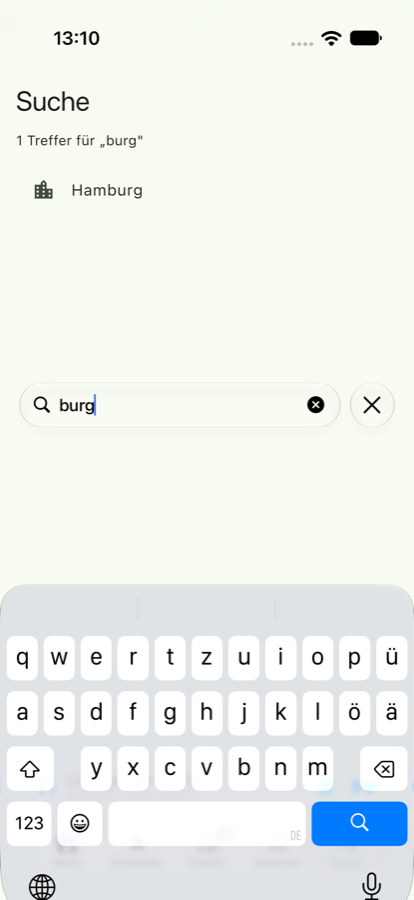
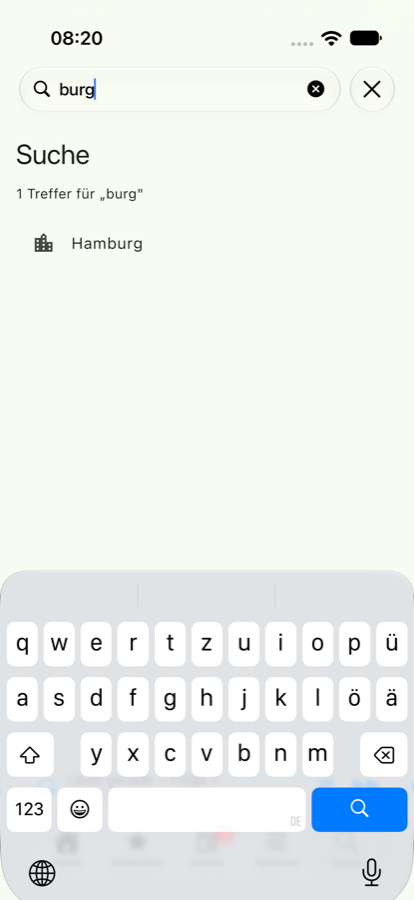
Place the active search field at the top like a native search tab
UIKit puts the active search field at the top of the tab bar controller's
view. The host strip was only extended by the keyboard height, so its top
edge, and with it the field, ended up mid-screen. While searching, the host
now fills the available height (the field lands below the status bar, as
in a pure UIKit app), the native side reports the field's bottom as
`topInset`, and UIKitTabScaffold pads the content top by it.

diff --git a/lib/src/native_bar.dart b/lib/src/native_bar.dart
@@ -92,24 +92,25 @@ class NativeTabBarState extends State<NativeTabBar> implements UIKitTabBarConnec
   }
 
   TabBarState get _state => TabBarState(
-        tabs: _config.tabs,
-        selectedId: _config.selectedId,
-        searchTab: _config.searchTab,
-        prominentTabId: _config.prominentTabId,
-        minimizeBehavior: _config.minimizeBehavior,
-        hidden: _config.hidden,
-        accessory: _config.accessory,
-        style: _config.style,
-        brightness: _config.style.brightness ??
-            CupertinoTheme.maybeBrightnessOf(context) ??
-            MediaQuery.platformBrightnessOf(context),
-        rtl: Directionality.maybeOf(context) == TextDirection.rtl,
-      );
+    tabs: _config.tabs,
+    selectedId: _config.selectedId,
+    searchTab: _config.searchTab,
+    prominentTabId: _config.prominentTabId,
+    minimizeBehavior: _config.minimizeBehavior,
+    hidden: _config.hidden,
+    accessory: _config.accessory,
+    style: _config.style,
+    brightness:
+        _config.style.brightness ??
+        CupertinoTheme.maybeBrightnessOf(context) ??
+        MediaQuery.platformBrightnessOf(context),
+    rtl: Directionality.maybeOf(context) == TextDirection.rtl,
+  );
 
   Map<String, Object?> _encode() => encodeState(
-        _state,
-        (icon) => IconRenderer.instance.lookup(icon, _scale, onReady: _scheduleUpdate),
-      );
+    _state,
+    (icon) => IconRenderer.instance.lookup(icon, _scale, onReady: _scheduleUpdate),
+  );
 
   /// PNGs for image keys the native side has not received yet.
   Map<String, Uint8List> _takeImages(Map<String, Object?> encoded) {
@@ -155,7 +156,9 @@ class NativeTabBarState extends State<NativeTabBar> implements UIKitTabBarConnec
   }
 
   Future<Object?> _handle(MethodCall call) async {
-    final args = call.arguments is Map ? (call.arguments as Map).cast<Object?, Object?>() : const {};
+    final args = call.arguments is Map
+        ? (call.arguments as Map).cast<Object?, Object?>()
+        : const {};
     switch (call.method) {
       case 'selected':
         final id = args['id'] as String;
@@ -225,23 +228,30 @@ class NativeTabBarState extends State<NativeTabBar> implements UIKitTabBarConnec
 
   @override
   Widget build(BuildContext context) {
-    // While the native search field is active, extend the host behind the
-    // keyboard so UIKit can place the field above it.
-    final keyboard = _searchActive ? MediaQuery.viewInsetsOf(context).bottom : 0.0;
-    return SizedBox(
-      height: kNativeHostHeight + _extraHeight + keyboard,
-      child: NativeHitRegion(
-        rects: _geometry.hitRects,
-        child: UiKitView(
-          viewType: kViewType,
-          creationParams: _creationParams,
-          creationParamsCodec: const StandardMessageCodec(),
-          onPlatformViewCreated: _onCreated,
-          gestureRecognizers: const <Factory<OneSequenceGestureRecognizer>>{
-            Factory<OneSequenceGestureRecognizer>(EagerGestureRecognizer.new),
-          },
-        ),
-      ),
+    // While the native search field is active, the host fills the
+    // available height: UIKit then places the field at the top below the
+    // status bar, as in a native app, instead of at the top of a strip.
+    return LayoutBuilder(
+      builder: (context, constraints) {
+        final full = constraints.hasBoundedHeight
+            ? constraints.maxHeight
+            : MediaQuery.sizeOf(context).height;
+        return SizedBox(
+          height: _searchActive ? full : kNativeHostHeight + _extraHeight,
+          child: NativeHitRegion(
+            rects: _geometry.hitRects,
+            child: UiKitView(
+              viewType: kViewType,
+              creationParams: _creationParams,
+              creationParamsCodec: const StandardMessageCodec(),
+              onPlatformViewCreated: _onCreated,
+              gestureRecognizers: const <Factory<OneSequenceGestureRecognizer>>{
+                Factory<OneSequenceGestureRecognizer>(EagerGestureRecognizer.new),
+              },
+            ),
+          ),
+        );
+      },
     );
   }
 }

diff --git a/lib/src/model.dart b/lib/src/model.dart
@@ -378,6 +378,7 @@ class UIKitTabBarGeometry {
   const UIKitTabBarGeometry({
     required this.isNative,
     required this.bottomInset,
+    this.topInset = 0,
     this.barRect,
     this.accessoryRect,
     this.searchFieldRect,
@@ -397,6 +398,11 @@ class UIKitTabBarGeometry {
   /// (bar, accessory and home indicator); UIKit's `contentLayoutGuide`.
   /// Apps use this as bottom padding.
   final double bottomInset;
+
+  /// Height at the top of the screen that content should keep clear of
+  /// while the native search field is active: like in a native app, UIKit
+  /// then shows the field at the top, below the status bar. `0` otherwise.
+  final double topInset;
 
   /// Frame of the tab bar view (full width, incl. home indicator area).
   final Rect? barRect;
@@ -424,6 +430,7 @@ class UIKitTabBarGeometry {
       other is UIKitTabBarGeometry &&
       other.isNative == isNative &&
       other.bottomInset == bottomInset &&
+      other.topInset == topInset &&
       other.barRect == barRect &&
       other.accessoryRect == accessoryRect &&
       other.searchFieldRect == searchFieldRect &&
@@ -433,11 +440,12 @@ class UIKitTabBarGeometry {
       other.accessoryEnvironment == accessoryEnvironment;
 
   @override
-  int get hashCode => Object.hash(isNative, bottomInset, barRect, accessoryRect,
+  int get hashCode => Object.hash(isNative, bottomInset, topInset, barRect, accessoryRect,
       searchFieldRect, Object.hashAll(hitRects), minimized, hidden, accessoryEnvironment);
 
   @override
   String toString() => 'UIKitTabBarGeometry(native: $isNative, bottomInset: $bottomInset, '
+      'topInset: $topInset, '
       'bar: $barRect, accessory: $accessoryRect, minimized: $minimized, hidden: $hidden, '
       'accessory: ${accessoryEnvironment.name})';
 }

diff --git a/lib/src/scaffold.dart b/lib/src/scaffold.dart
@@ -12,7 +12,8 @@ import 'tab_bar.dart';
 /// * the body extends to the bottom edge (the glass bar shows it through),
 /// * `MediaQuery.padding.bottom` of the body is the bar's reported
 ///   [UIKitTabBarGeometry.bottomInset], so `SafeArea`, `ListView` etc. keep
-///   their content clear of the bar,
+///   their content clear of the bar; while the native search field is
+///   active at the top, `padding.top` covers it ([UIKitTabBarGeometry.topInset]),
 /// * vertical scrolling of the body's primary scrollable is forwarded so
 ///   the native bar can minimize.
 ///
@@ -62,11 +63,17 @@ class _UIKitTabScaffoldState extends State<UIKitTabScaffold> {
                 final inset = geometry == UIKitTabBarGeometry.initial
                     ? estimatedBottomInset(media.padding.bottom)
                     : geometry.bottomInset;
+                final top = geometry.topInset;
                 return MediaQuery(
                   data: media.copyWith(
-                    padding: media.padding.copyWith(bottom: math.max(media.padding.bottom, inset)),
-                    viewPadding:
-                        media.viewPadding.copyWith(bottom: math.max(media.viewPadding.bottom, inset)),
+                    padding: media.padding.copyWith(
+                      top: math.max(media.padding.top, top),
+                      bottom: math.max(media.padding.bottom, inset),
+                    ),
+                    viewPadding: media.viewPadding.copyWith(
+                      top: math.max(media.viewPadding.top, top),
+                      bottom: math.max(media.viewPadding.bottom, inset),
+                    ),
                   ),
                   child: child!,
                 );

diff --git a/test/native_bar_test.dart b/test/native_bar_test.dart
@@ -288,6 +288,46 @@ void main() {
     expect(native.calls.last.arguments, {'action': 'setText', 'text': 'Text'});
   });
 
+  testWidgets('active search fills the height and pads the content top', (tester) async {
+    tester.view.physicalSize = const Size(420, 912);
+    tester.view.devicePixelRatio = 1;
+    addTearDown(tester.view.reset);
+    final native = FakeNative(tester);
+    late EdgeInsets bodyPadding;
+    await tester.pumpWidget(_app(UIKitTabScaffold(
+      tabBar: UIKitTabBar(
+        tabs: _tabs,
+        selectedId: 'search',
+        onSelected: (_) {},
+        searchTab: const UIKitSearchTab(),
+      ),
+      body: Builder(builder: (context) {
+        bodyPadding = MediaQuery.paddingOf(context);
+        return const SizedBox.expand();
+      }),
+    )));
+    await tester.pump();
+    final host = find.byType(UiKitView);
+    expect(tester.getSize(host).height, 200);
+
+    await native.send('searchActive', {'active': true});
+    expect(tester.getSize(host).height, 912, reason: 'UIKit puts the active field at the top');
+
+    await native.send('geometry', {
+      'bottomInset': 83.0,
+      'topInset': 112.0,
+      'search': [20.0, 68.0, 325.0, 44.0],
+      'hitRects': [
+        [20.0, 68.0, 325.0, 44.0],
+      ],
+    });
+    await tester.pump();
+    expect(bodyPadding.top, 112);
+
+    await native.send('searchActive', {'active': false});
+    expect(tester.getSize(host).height, 200);
+  });
+
   test('isNativeSupported follows the override', () {
     debugUseNativeTabBar = false;
     expect(UIKitTabBar.isNativeSupported, isFalse);

diff --git a/ios/uikit_tab_bar/Sources/uikit_tab_bar/NativeTabBarView.swift b/ios/uikit_tab_bar/Sources/uikit_tab_bar/NativeTabBarView.swift
@@ -47,6 +47,7 @@ final class NativeTabBarView: NSObject, FlutterPlatformView, UITabBarControllerD
   private var lastGeometry: [String: AnyHashable] = [:]
   private var displayLink: CADisplayLink?
   private var pollUntil: CFTimeInterval = 0
+  private var searchActive = false
 
   init(frame: CGRect, channel: FlutterMethodChannel, args: [String: Any]) {
     host = HostView(frame: frame)
@@ -208,6 +209,7 @@ final class NativeTabBarView: NSObject, FlutterPlatformView, UITabBarControllerD
       vc.onText = { text in self?.send("searchChanged", ["text": text]) }
       vc.onSubmit = { text in self?.send("searchSubmitted", ["text": text]) }
       vc.onActive = { active in
+        self?.searchActive = active
         self?.send("searchActive", ["active": active])
         self?.pokeGeometry()
       }
@@ -386,6 +388,8 @@ final class NativeTabBarView: NSObject, FlutterPlatformView, UITabBarControllerD
       "hidden": controller.isTabBarHidden,
       "minimized": minimized,
       "bottomInset": Double(max(0, host.bounds.maxY - guide.maxY)),
+      // Active, the field sits at the top of the (then full-height) host.
+      "topInset": searchActive && !searchRect.isEmpty ? searchRect[1] + searchRect[3] : 0.0,
       "accessoryEnvironment": accessoryView?.environmentName ?? "none",
     ]
     if geometry != lastGeometry {

diff --git a/example/ios/ExampleUITests/ExampleUITests.swift b/example/ios/ExampleUITests/ExampleUITests.swift
@@ -102,6 +102,10 @@ final class ExampleUITests: XCTestCase {
     app.typeText("burg")
     sleep(1)
     shot("search")
+    // Like a native UISearchTab: the active field moves to the top, right
+    // below the status bar (measured natively: y = 68 on an iPhone Air).
+    XCTAssertLessThan(field.frame.minY, 120, "active field sits at the top")
+    XCTAssertGreaterThan(field.frame.minY, 40, "below the status bar")
     // The Flutter page renders the hits from the text Dart received.
     XCTAssertTrue(app.staticTexts["Hamburg"].exists)
     XCTAssertFalse(app.staticTexts["Berlin"].exists)

diff --git a/test/protocol_test.dart b/test/protocol_test.dart
@@ -188,6 +188,7 @@ void main() {
   test('decodeGeometry', () {
     final g = decodeGeometry({
       'bottomInset': 139,
+      'topInset': 112,
       'bar': [0, 117, 420, 83],
       'accessory': <Object?>[],
       'search': [20, 10, 380, 44],
@@ -201,6 +202,7 @@ void main() {
     });
     expect(g.isNative, isTrue);
     expect(g.bottomInset, 139);
+    expect(g.topInset, 112);
     expect(g.barRect, const Rect.fromLTWH(0, 117, 420, 83));
     expect(g.accessoryRect, isNull);
     expect(g.searchFieldRect, const Rect.fromLTWH(20, 10, 380, 44));

diff --git a/lib/src/protocol.dart b/lib/src/protocol.dart
@@ -231,6 +231,7 @@ UIKitTabBarGeometry decodeGeometry(Map<Object?, Object?> m) {
   return UIKitTabBarGeometry(
     isNative: true,
     bottomInset: (m['bottomInset'] as num?)?.toDouble() ?? 0,
+    topInset: (m['topInset'] as num?)?.toDouble() ?? 0,
     barRect: _rect(m['bar']),
     accessoryRect: _rect(m['accessory']),
     searchFieldRect: _rect(m['search']),

diff --git a/README.md b/README.md
@@ -126,9 +126,9 @@ offered in `UIKitTabBarStyle`.
   scroll position. A scroll back up during a drag expands natively.
 * **Accessory content** is native, described by its fields. Arbitrary
   Flutter widgets inside it would need a second Flutter engine.
-* **Search with keyboard.** While the native search field is active, the
-  platform view grows behind the keyboard so UIKit can place the field
-  above it.
+* **Search mode.** While the native search field is active, the platform
+  view fills the screen so UIKit shows the field at the top, as natively;
+  `UIKitTabScaffold` pads the content top by `UIKitTabBarGeometry.topInset`.
 * **iPad.** The phone-style bottom bar is shown (compact size class). The
   top tab bar, sidebar, tab groups and drag and drop are not supported.
 * **Overlays.** Flutter content painted above the bar region (dialogs,
